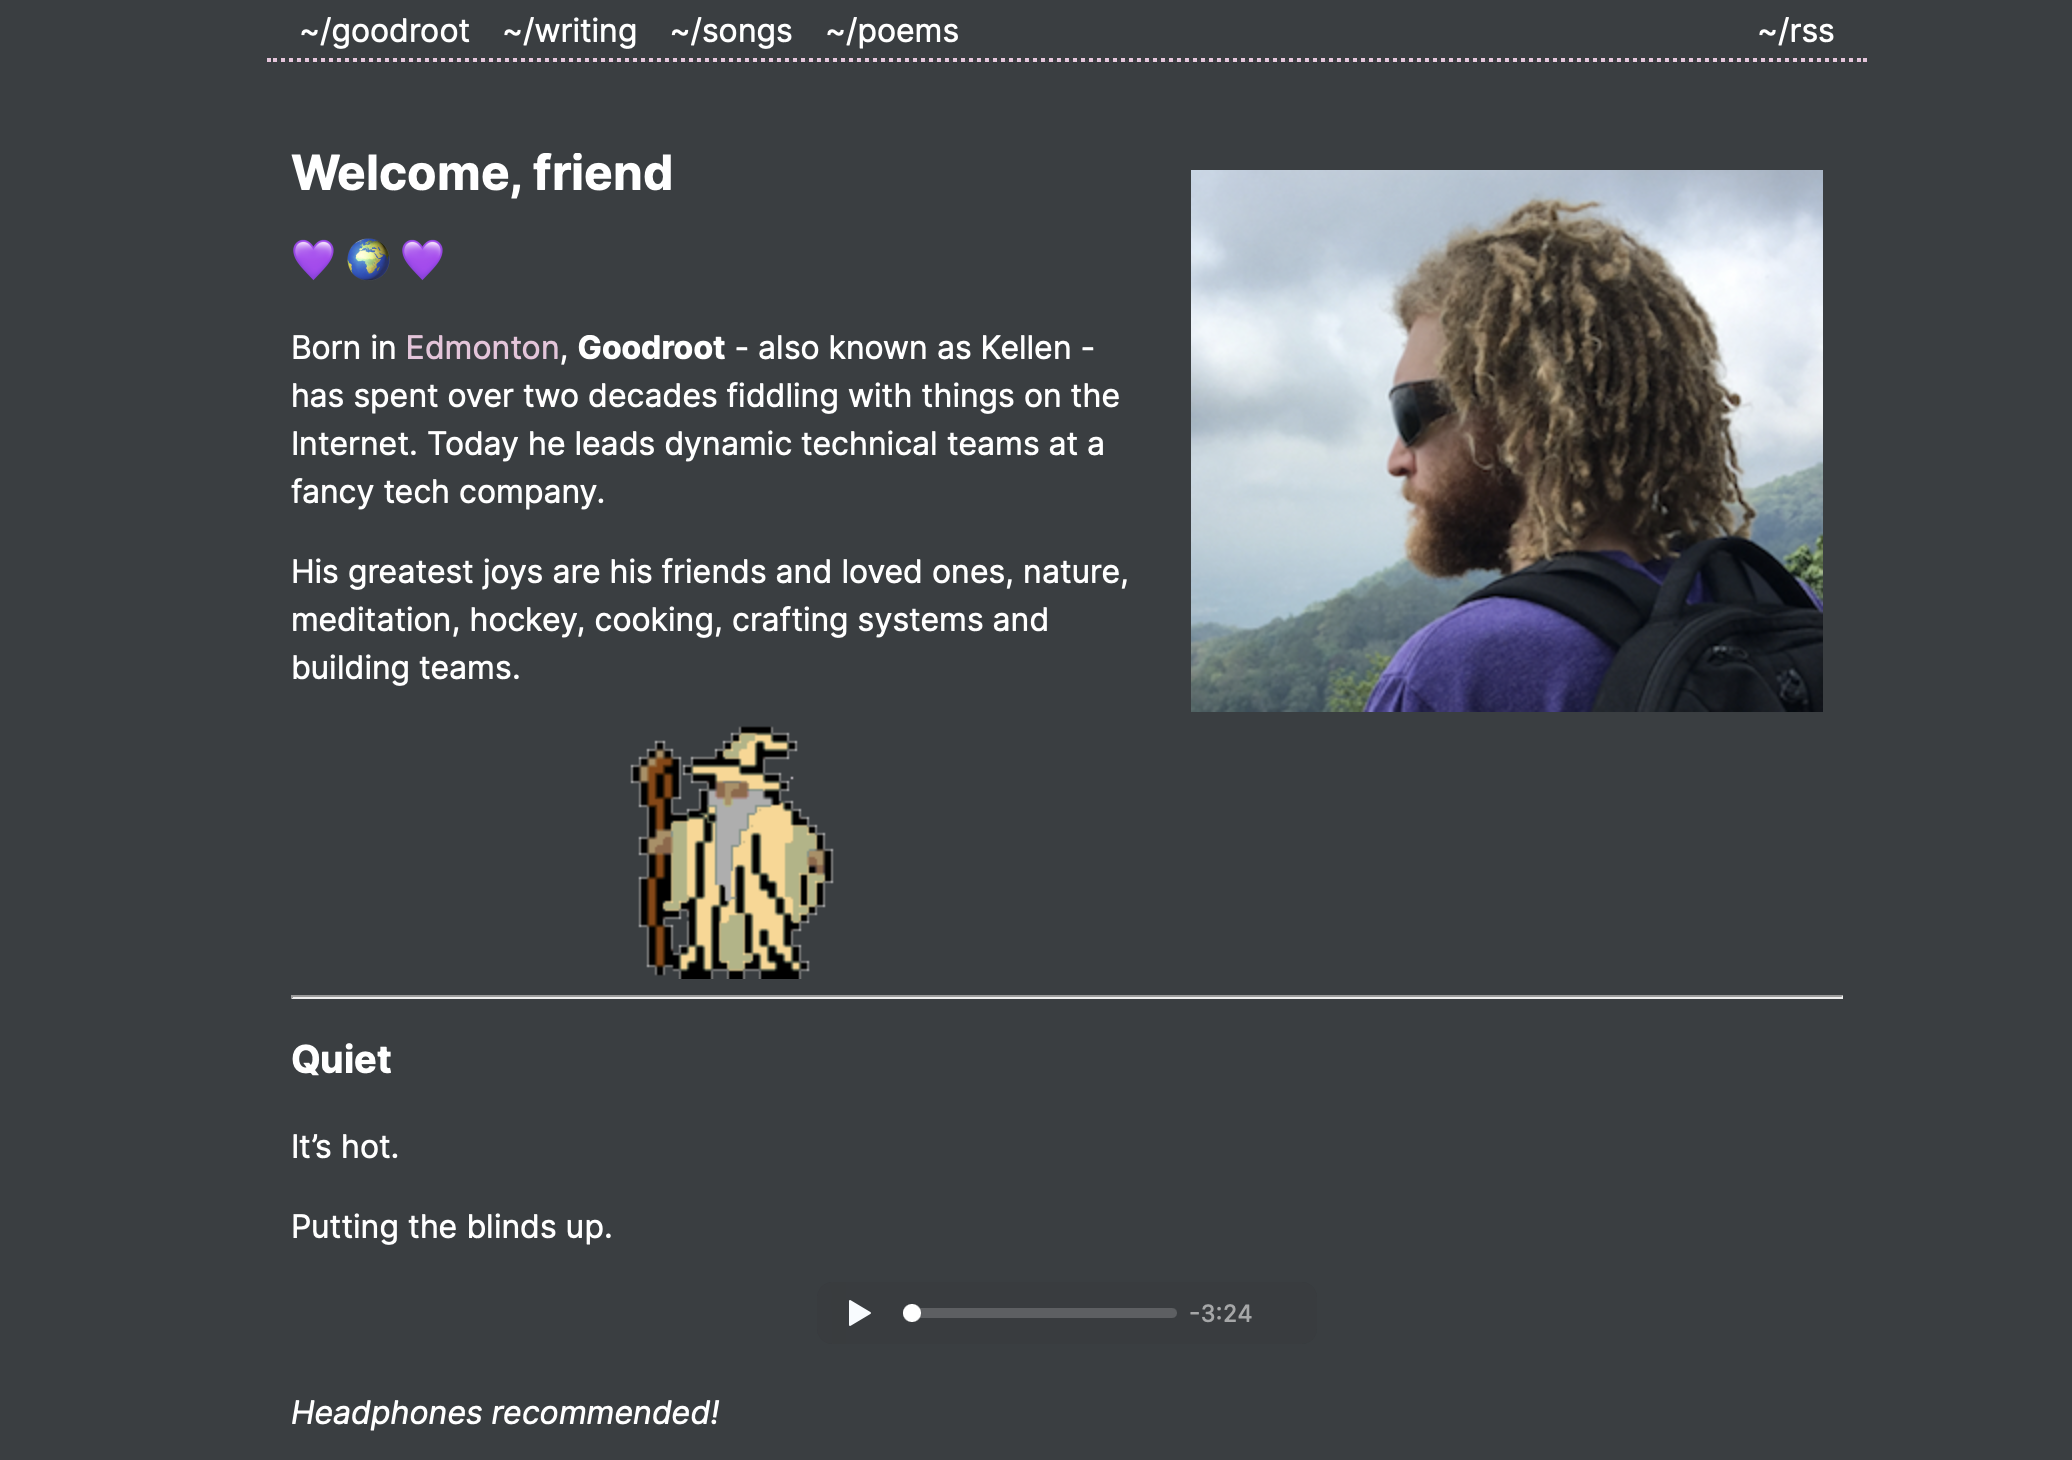
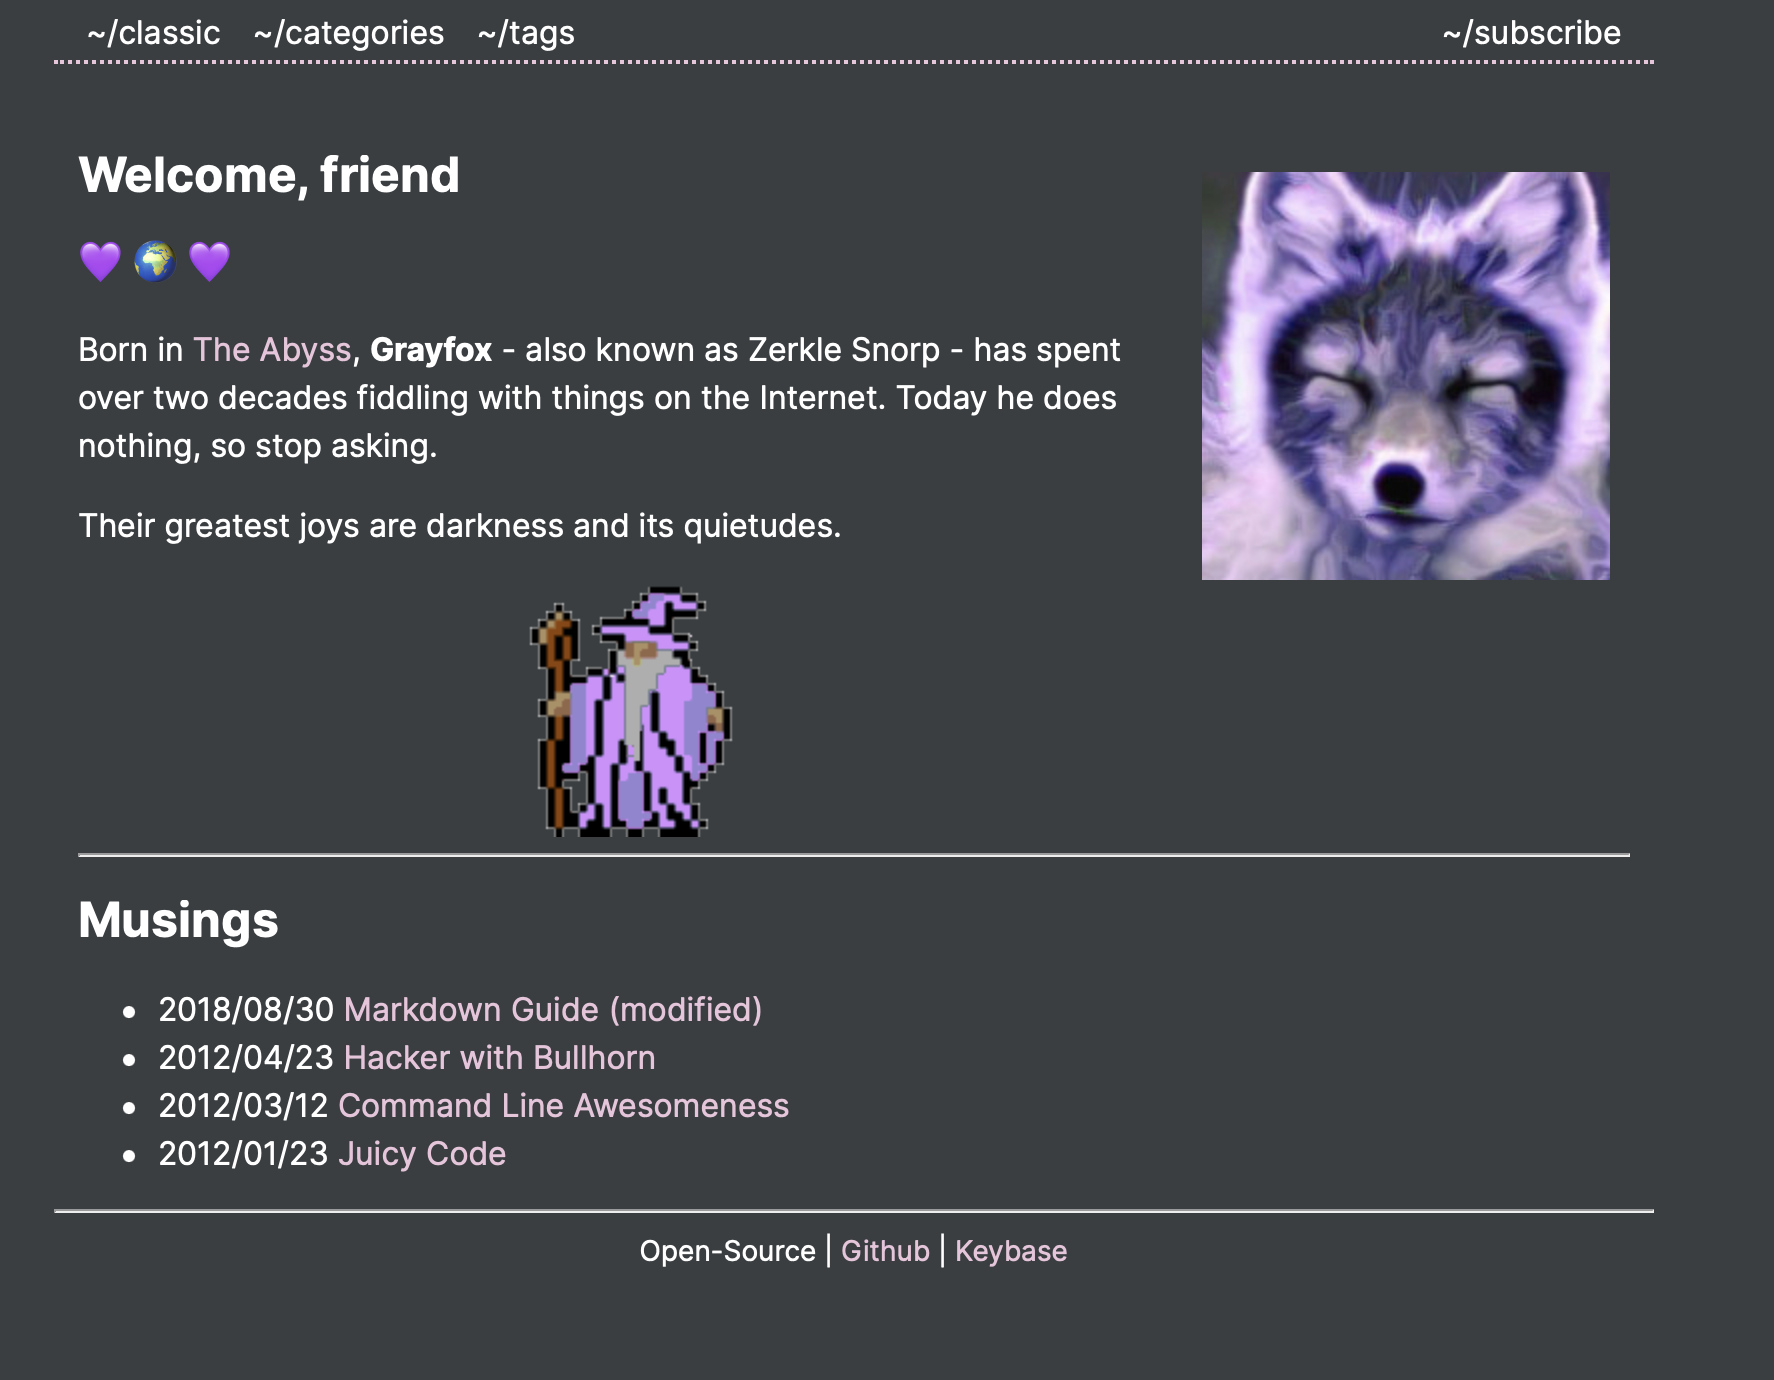
polish

diff --git a/exampleSite/content/_index.md b/exampleSite/content/_index.md
@@ -16,3 +16,7 @@ Born in [The Abyss](https://en.wikipedia.org/wiki/Edmonton), **Grayfox** - also 
 Their greatest joys are darkness and its quietudes.
 
 <img src="/images/partywizard.gif">
+
+---
+
+## Musings
